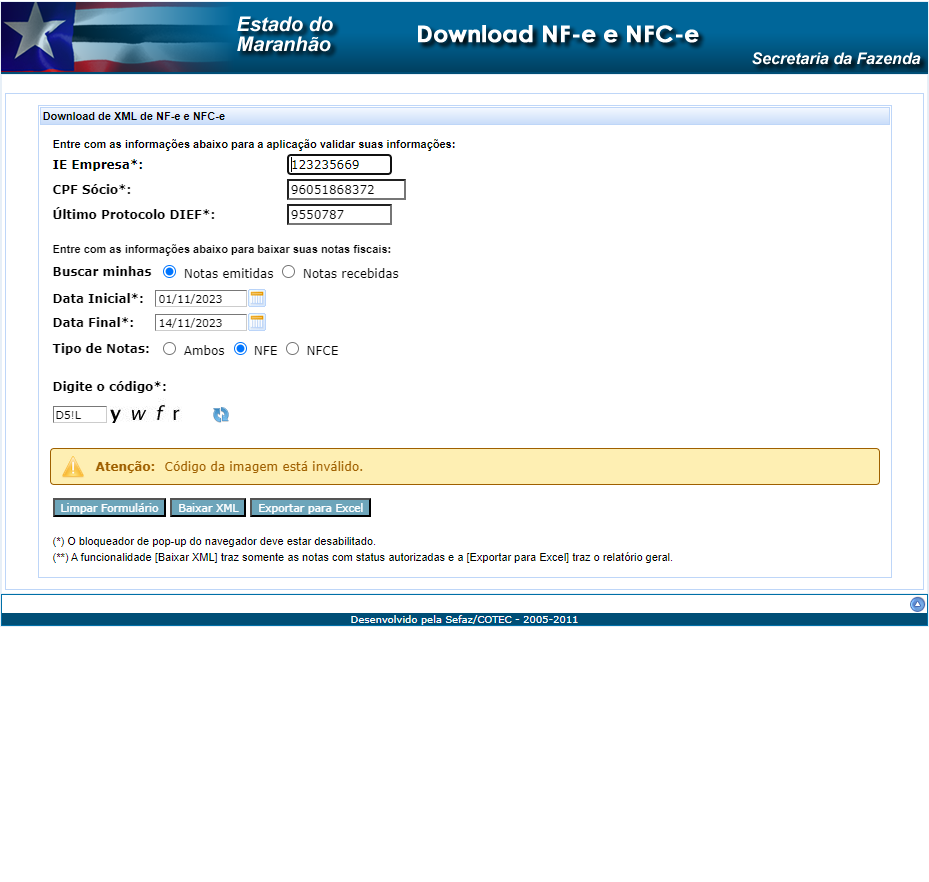
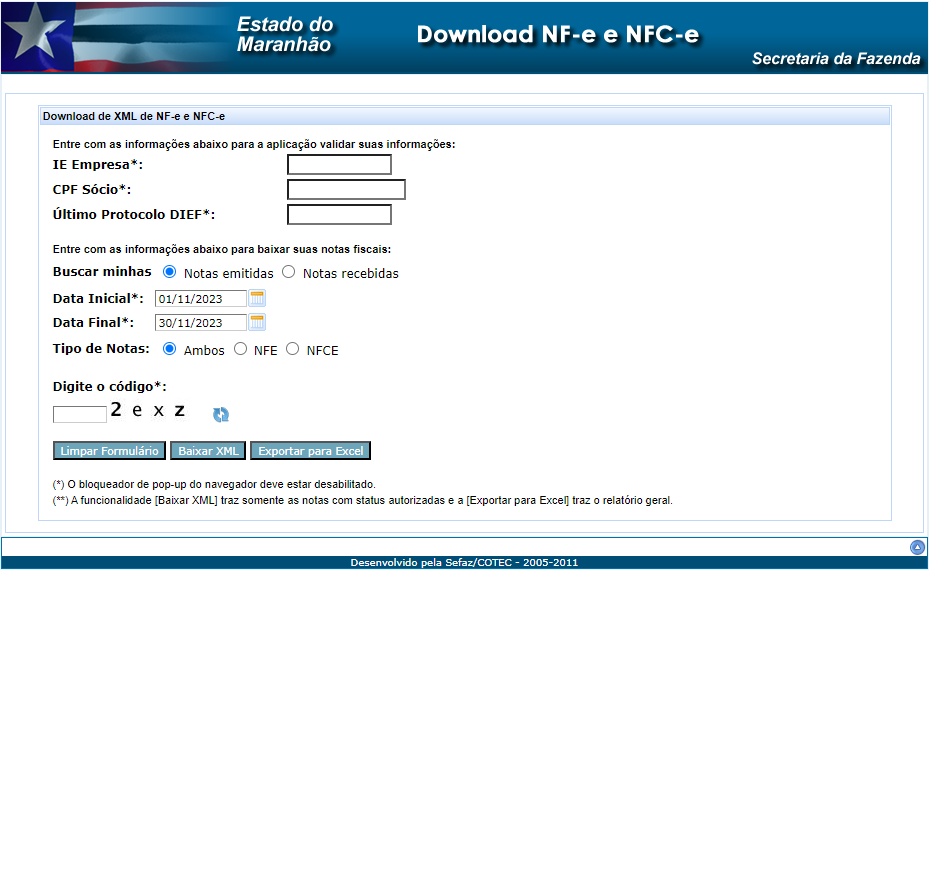
add botao notas e botao prev mes

diff --git a/automatizacao-selenium.py b/automatizacao-selenium.py
@@ -17,6 +17,8 @@ pytesseract.pytesseract.tesseract_cmd = r'C:\Program Files\Tesseract-OCR\tessera
 
 def automatizar_sefaz(num_empresa, num_socio, num_dief):
     
+    dataset = [("2", "31"), ("10", "11")]
+    
     def ocr_imagem():
         # Localizar o elemento da imagem pelo ID 
         elemento_imagem = driver.find_element(By.ID, "form1:captcha")
@@ -64,7 +66,7 @@ def automatizar_sefaz(num_empresa, num_socio, num_dief):
     # Seleciona o frame
     iframe = driver.find_element(By.NAME, 'mainFrame')
     driver.switch_to.frame(iframe)
-
+    
     # Encontrar o elemento IE Empresa
     input_empresa = driver.find_element(By.NAME, 'form1:j_id11')
     # numero_empresa = "123235669"
@@ -83,87 +85,121 @@ def automatizar_sefaz(num_empresa, num_socio, num_dief):
     protocolo_dief = num_dief
     input_dief.send_keys(protocolo_dief) 
     time.sleep(1)
-
-    # Encontrar o elemento do calendario pop up (data inicial)
-    element = driver.find_element(By.ID, 'form1:dtIniPopupButton')
-    # Executa as ações
-    element.click()
-    time.sleep(1)
-    botao_calendario = driver.find_element(By.ID, 'form1:dtIniDayCell2')
-    botao_calendario.click()
-
-    # Encontrar o elemento do calendario pop up (data final)
-    element = driver.find_element(By.ID, 'form1:dtFinPopupButton')
-    # Executa as ações
-    element.click()
-    time.sleep(1)
-    botao_calendario = driver.find_element(By.ID, 'form1:dtFinDayCell15')
-    botao_calendario.click()
-
-    texto_extraido = ocr_imagem()
-
-    # Encontrar o campo para inserir o Captcha
-    input_captcha = driver.find_element(By.NAME, 'form1:j_id35')
-    # Limpar o conteúdo do campo
-    input_captcha.clear()
-    input_captcha.send_keys(texto_extraido) 
-    # input_captcha.send_keys("123456")
-    time.sleep(2)
-
-    # Encontrar o elemento Baixar XML
-    element_baixar_xml = driver.find_element(By.NAME, 'form1:j_id41')
-    element_baixar_xml.click()
-    # time.sleep(3)
-
-    # Esperar até 10 segundos para ver se o download inicia ou uma mensagem é exibida
-    try:
-        # Esperar pelo início do download
-        WebDriverWait(driver, 10).until(EC.presence_of_element_located((By.CLASS_NAME, 'ui-messages-warn-detail')))
+    
+    # Aguardar até que o elemento de rádio esteja visível e interagível
+    botao_tipo_notas = WebDriverWait(driver, 10).until(
+    EC.element_to_be_clickable((By.ID, 'form1:j_id25:0'))
+    )
+    # Verificar se o rádio não está marcado
+    if not botao_tipo_notas.is_selected():
+        # Clicar no rádio para marcá-lo
+        botao_tipo_notas.click()
+    
+    for data in dataset:
+        # Encontrar o elemento do calendario pop up (data inicial)
+        element = driver.find_element(By.ID, 'form1:dtIniPopupButton')
+        # Executa as ações
+        element.click()
+        time.sleep(1)
         
-        # Verificar se é uma mensagem de erro de captcha
-        try:
-            captcha_error_message = driver.find_element(By.XPATH, "//span[contains(@class, 'ui-messages-warn-detail') and text()='Código da imagem está inválido.']").text
-            if captcha_error_message:
-                print(f"Erro no captcha: {captcha_error_message}")
-                # Pode tentar novamente aqui antes de sair ou lançar uma exceção
+        botao_calendario = driver.find_element(By.ID, f'form1:dtIniDayCell{data[0]}')
+        botao_calendario.click()
 
-                texto_extraido = ocr_imagem()
-                time.sleep(2)
-                # Encontrar o campo para inserir o Captcha
-                input_captcha = driver.find_element(By.NAME, 'form1:j_id35')
-                # Limpar o conteúdo do campo
-                input_captcha.clear()
-                input_captcha.send_keys(texto_extraido) 
-                time.sleep(2)
-                # Encontrar o elemento Baixar XML
-                element_baixar_xml = driver.find_element(By.NAME, 'form1:j_id41')
-                element_baixar_xml.click()
-        except NoSuchElementException:
-            # Se o bloco 'try' foi bem-sucedido, continue aqui para verificar outros elementos
-            pass
-        # Verificar se é uma mensagem de ausência de download
-        try:
-            no_download_message = driver.find_element(By.XPATH, "//span[contains(@class, 'ui-messages-warn-detail') and text()='A consulta foi realizada com sucesso porém não foram encontradas notas.']").text
-            if no_download_message:
-                print(f"Nada para baixar: {no_download_message}")
-                # Pode sair do loop ou fazer outra ação apropriada
-        except NoSuchElementException:
-            pass
-            # Se não houver mensagens relevantes, continue no loop ou faça outra ação apropriada
-    except TimeoutException:
-        # Se não houver download iniciado, e não há mensagens de erro ou de ausência de download
-        # presume-se que o download foi iniciado corretamente
-        print("Download iniciado com sucesso!")
+        # Encontrar o elemento do calendario pop up (data final)
+        element = driver.find_element(By.ID, 'form1:dtFinPopupButton')
+        # Executa as ações
+        element.click()
+        time.sleep(1)
+        
+        botao_calendario = driver.find_element(By.ID, f'form1:dtFinDayCell{data[1]}')
+        botao_calendario.click()
 
-    time.sleep(2)
+        texto_extraido = ocr_imagem()
+
+        # Encontrar o campo para inserir o Captcha
+        input_captcha = driver.find_element(By.NAME, 'form1:j_id35')
+        # Limpar o conteúdo do campo
+        input_captcha.clear()
+        input_captcha.send_keys(texto_extraido) 
+        # input_captcha.send_keys("123456")
+        time.sleep(2)
+
+        # Encontrar o elemento Baixar XML
+        element_baixar_xml = driver.find_element(By.NAME, 'form1:j_id41')
+        element_baixar_xml.click()
+        # time.sleep(3)
+
+        # Esperar até 10 segundos para ver se o download inicia ou uma mensagem é exibida
+        try:
+            # Esperar pelo início do download
+            WebDriverWait(driver, 10).until(EC.presence_of_element_located((By.CLASS_NAME, 'ui-messages-warn-detail')))
+            
+            # Verificar se é uma mensagem de erro de captcha
+            try:
+                captcha_error_message = driver.find_element(By.XPATH, "//span[contains(@class, 'ui-messages-warn-detail') and text()='Código da imagem está inválido.']").text
+                if captcha_error_message:
+                    print(f"Erro no captcha: {captcha_error_message}")
+                    # Pode tentar novamente aqui antes de sair ou lançar uma exceção
+
+                    texto_extraido = ocr_imagem()
+                    time.sleep(2)
+                    # Encontrar o campo para inserir o Captcha
+                    input_captcha = driver.find_element(By.NAME, 'form1:j_id35')
+                    # Limpar o conteúdo do campo
+                    input_captcha.clear()
+                    input_captcha.send_keys(texto_extraido) 
+                    time.sleep(2)
+                    # Encontrar o elemento Baixar XML
+                    element_baixar_xml = driver.find_element(By.NAME, 'form1:j_id41')
+                    element_baixar_xml.click()
+            except NoSuchElementException:
+                # Se o bloco 'try' foi bem-sucedido, continue aqui para verificar outros elementos
+                pass
+            # Verificar se é uma mensagem de ausência de download
+            try:
+                no_download_message = driver.find_element(By.XPATH, "//span[contains(@class, 'ui-messages-warn-detail') and text()='A consulta foi realizada com sucesso porém não foram encontradas notas.']").text
+                if no_download_message:
+                    print(f"Nada para baixar: {no_download_message}")
+                    # Pode sair do loop ou fazer outra ação apropriada
+            except NoSuchElementException:
+                pass
+                # Se não houver mensagens relevantes, continue no loop ou faça outra ação apropriada
+        except TimeoutException:
+            # Se não houver download iniciado, e não há mensagens de erro ou de ausência de download
+            # presume-se que o download foi iniciado corretamente
+            print("Download iniciado com sucesso!")
+
+        time.sleep(2)
+        # <span class="ui-messages-warn-detail">A consulta foi realizada com sucesso porém não foram encontradas notas.</span>
+        # <span class="ui-messages-warn-detail">Código da imagem está inválido.</span>
+        # <span class="ui-messages-warn-detail">Todos os campos com (*) devem ser informados.</span>
+        
+        # Encontrar o elemento do calendario pop up (data inicial)
+        element = driver.find_element(By.ID, 'form1:dtIniPopupButton')
+        # Executa as ações
+        element.click()
+        time.sleep(1)
+        
+        # Encontrar o elemento do botão "<" pelo XPath
+        botao_anterior = driver.find_element(By.XPATH, "//div[text()='<']")
+        # Clicar no botão
+        botao_anterior.click()
+        time.sleep(2)
+
+        # Encontrar o elemento do calendario pop up (data final)
+        element = driver.find_element(By.ID, 'form1:dtFinPopupButton')
+        # Executa as ações
+        element.click()
+        # Encontrar o elemento do botão "<" pelo XPath
+        botao_anterior = driver.find_element(By.XPATH, "//div[text()='<']")
+        # Clicar no botão
+        botao_anterior.click()
+        time.sleep(2)
+    
     # Fechar o navegador
     driver.quit()
-
-
-    # <span class="ui-messages-warn-detail">A consulta foi realizada com sucesso porém não foram encontradas notas.</span>
-    # <span class="ui-messages-warn-detail">Código da imagem está inválido.</span>
-    # <span class="ui-messages-warn-detail">Todos os campos com (*) devem ser informados.</span>
     
+        
 # Função para iniciar a automação quando o botão for pressionado
 def iniciar_automacao():
     num_empresa = empresa_entry.get()
